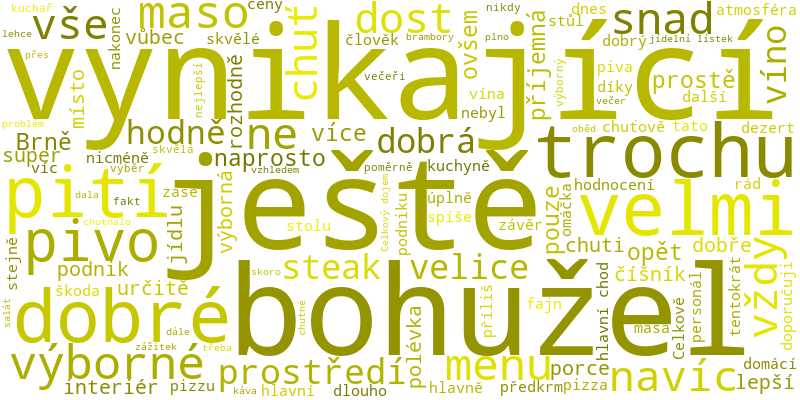
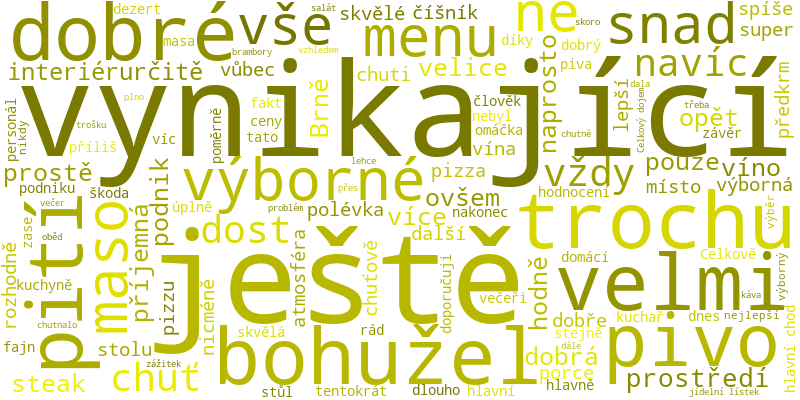
Hopefully last commit with wordcloud change :)

diff --git a/wordcloud_nltk.py b/wordcloud_nltk.py
@@ -40,7 +40,7 @@ conjunctions = ["a", "i", "ani", "nebo", "či", "přímo", "nadto", "ani", "jak"
 pronouns = ["já", "ty", "on", "ona", "ono", "my", "vy", "oni", "ony", "ona","se", "můj", "tvůj", "jeho", "její", "náš", "váš", "svůj", "ten", "tento", "tenhle", "onen", "takový", "týž", "tentýž", "sám", "kdo", "co", "jaký", "který","čí", "jenž", "nikdo", "nic", "nijaký", "ničí", "žádný", "někdo", "nějaký", "některý", "lecco", "něčí", "něco"]
 verbs = ["být","bejt","jsem","sme","jsi","je","jest","jsme","jste","jsou","budu","budeš","bude","budeme","budete","budou","buď","budiž","buďme","buďmež","buďte","buďtež","byl","byla","bylo","byli","byly","jsa","jsouc","jsouce","byv","byvše","byvši","bych","bychom","nebyla","nebylo","nam","vás","vas","chtěli","chteli","dali","bys","byste","by", "seš", "mám","máš","má","máme","máte","mají","měj","mějme","mějte","měl","měla","mělo","měli","měly","maje","majíc","majíce"]
 another_specific = ["jít","muset","jeden","druhý","moct","opravdu","všechen","mít","moc","dostat","dal","chtít","dát","si","cca","dne","jen","mi","mě","tady","tomu","že","to","nám","ná","takže","jako","už","pokud","asi","celkem","docela","tam","ze","ve","ji","ta","pak","taky","což","tím","již","možná","která","toho","protože","sem","kde","která","které","tu","než","když","Kč","při","až","ho","této","mne","aby","tuto","tom","No","kdy","jejich","jinak","zde","kterou","toto","ní","nás","mu","dostali","objednali","jím","myslím","jim","Já","Jen","námi","mě","me","Na","Po","není",")","(",".",",",":","!","...","-","?"]
-text_specific_stopwords = ["jídlo","jídla","jidlo","jidla","jídel","obsluha","obsluhy","obsluhu","restaurace","restauraci","objednat"]
+text_specific_stopwords = ["jídlo","jídla","jidlo","jidla","jídel","jídlu","obsluha","obsluhy","obsluhu","restaurace","restauraci","objednat"]
 
 #STOPWORDS WITHOUT DIACRITICS LOWERCASE
 prepositions_without = [''.join((c for c in unicodedata.normalize('NFD', preposition) if unicodedata.category(c) != 'Mn')) for preposition in prepositions]
